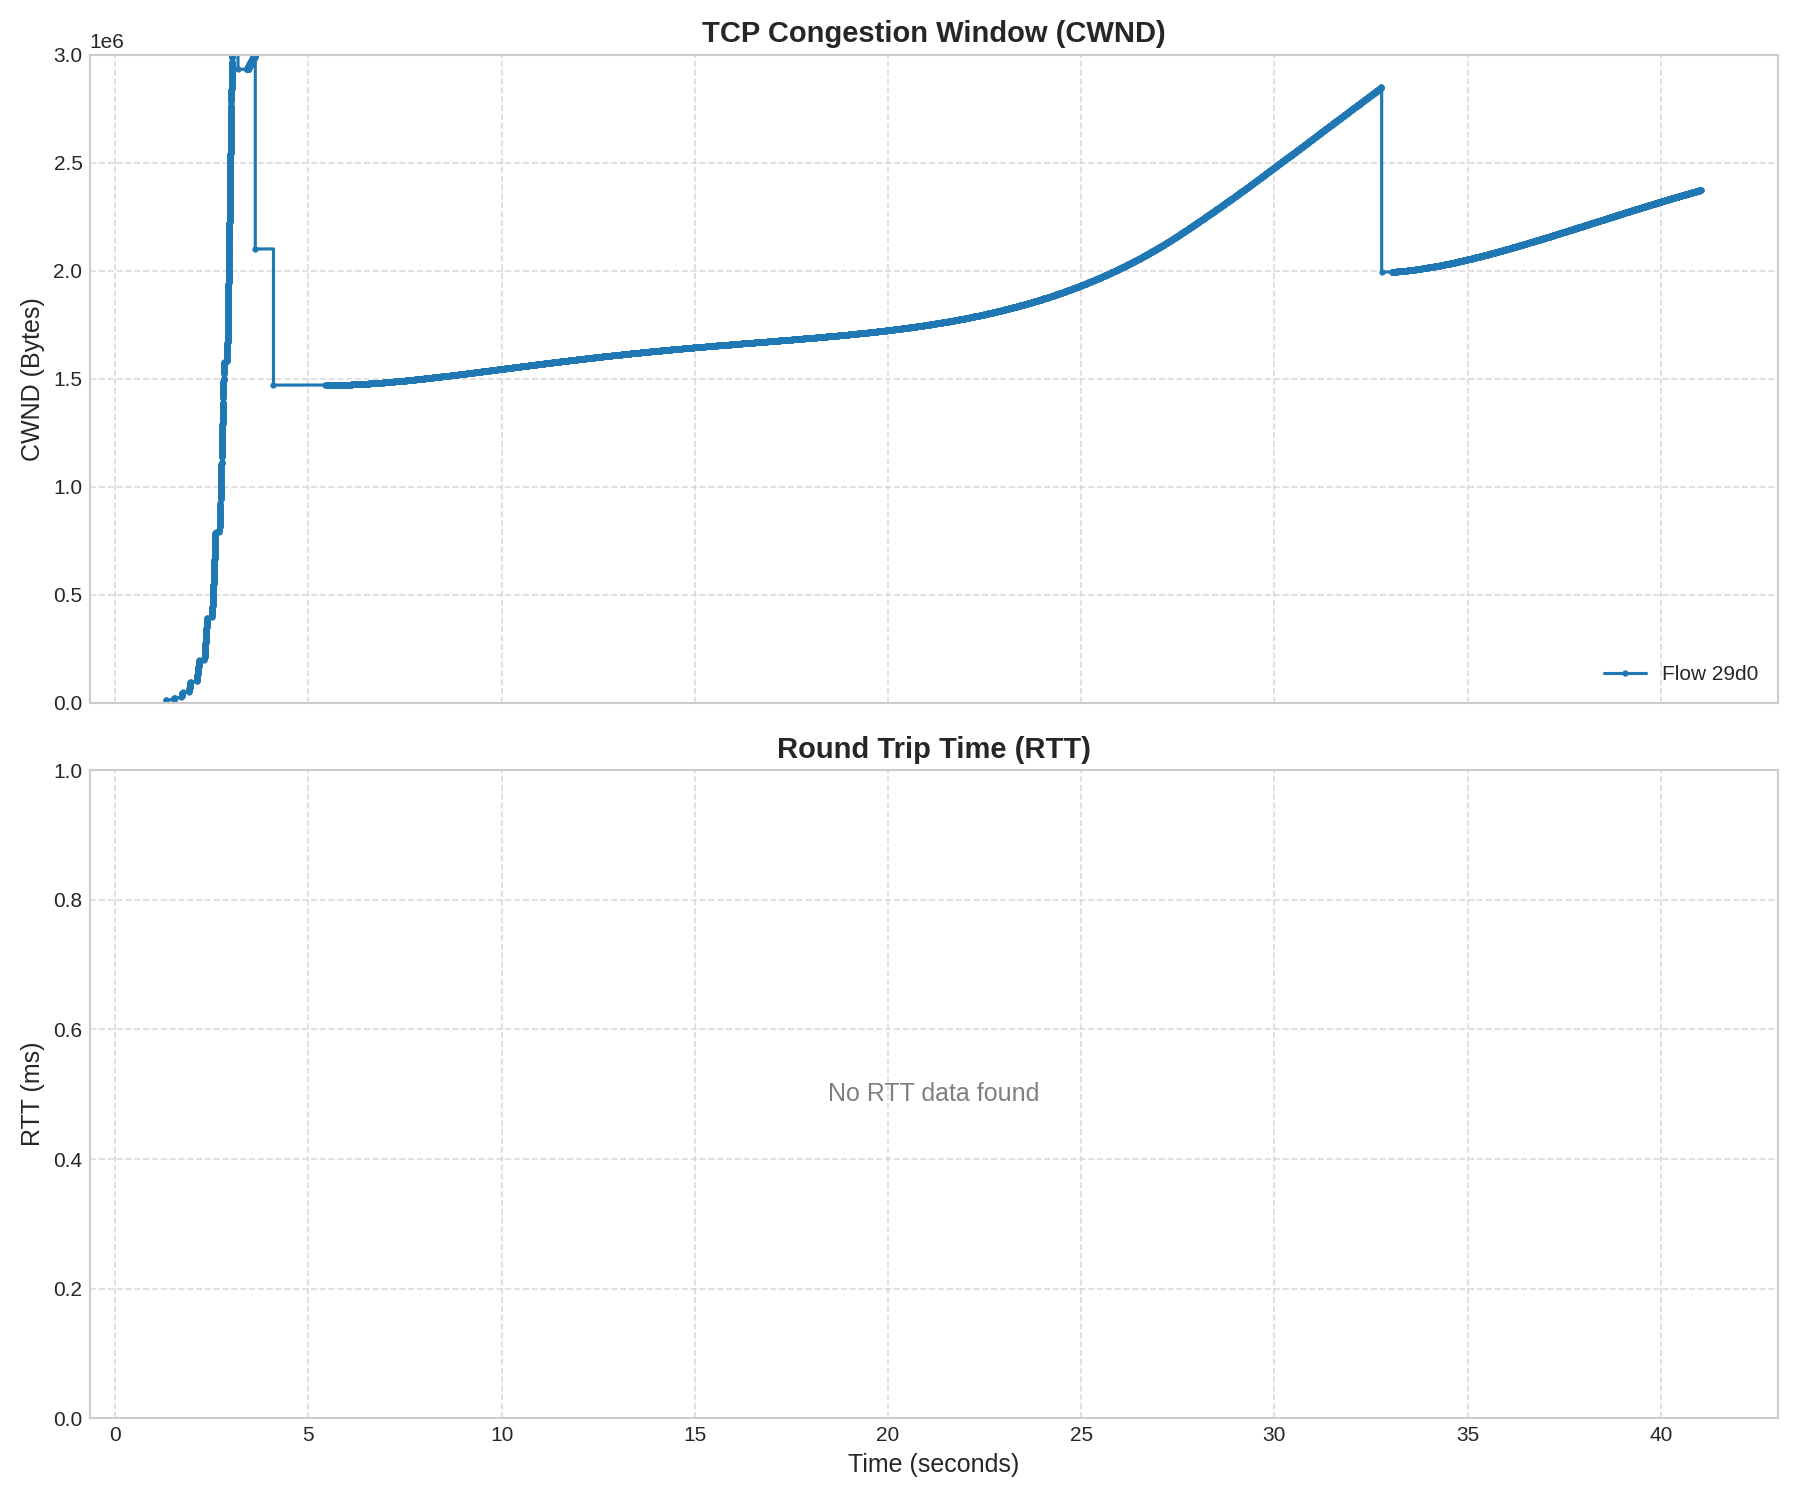
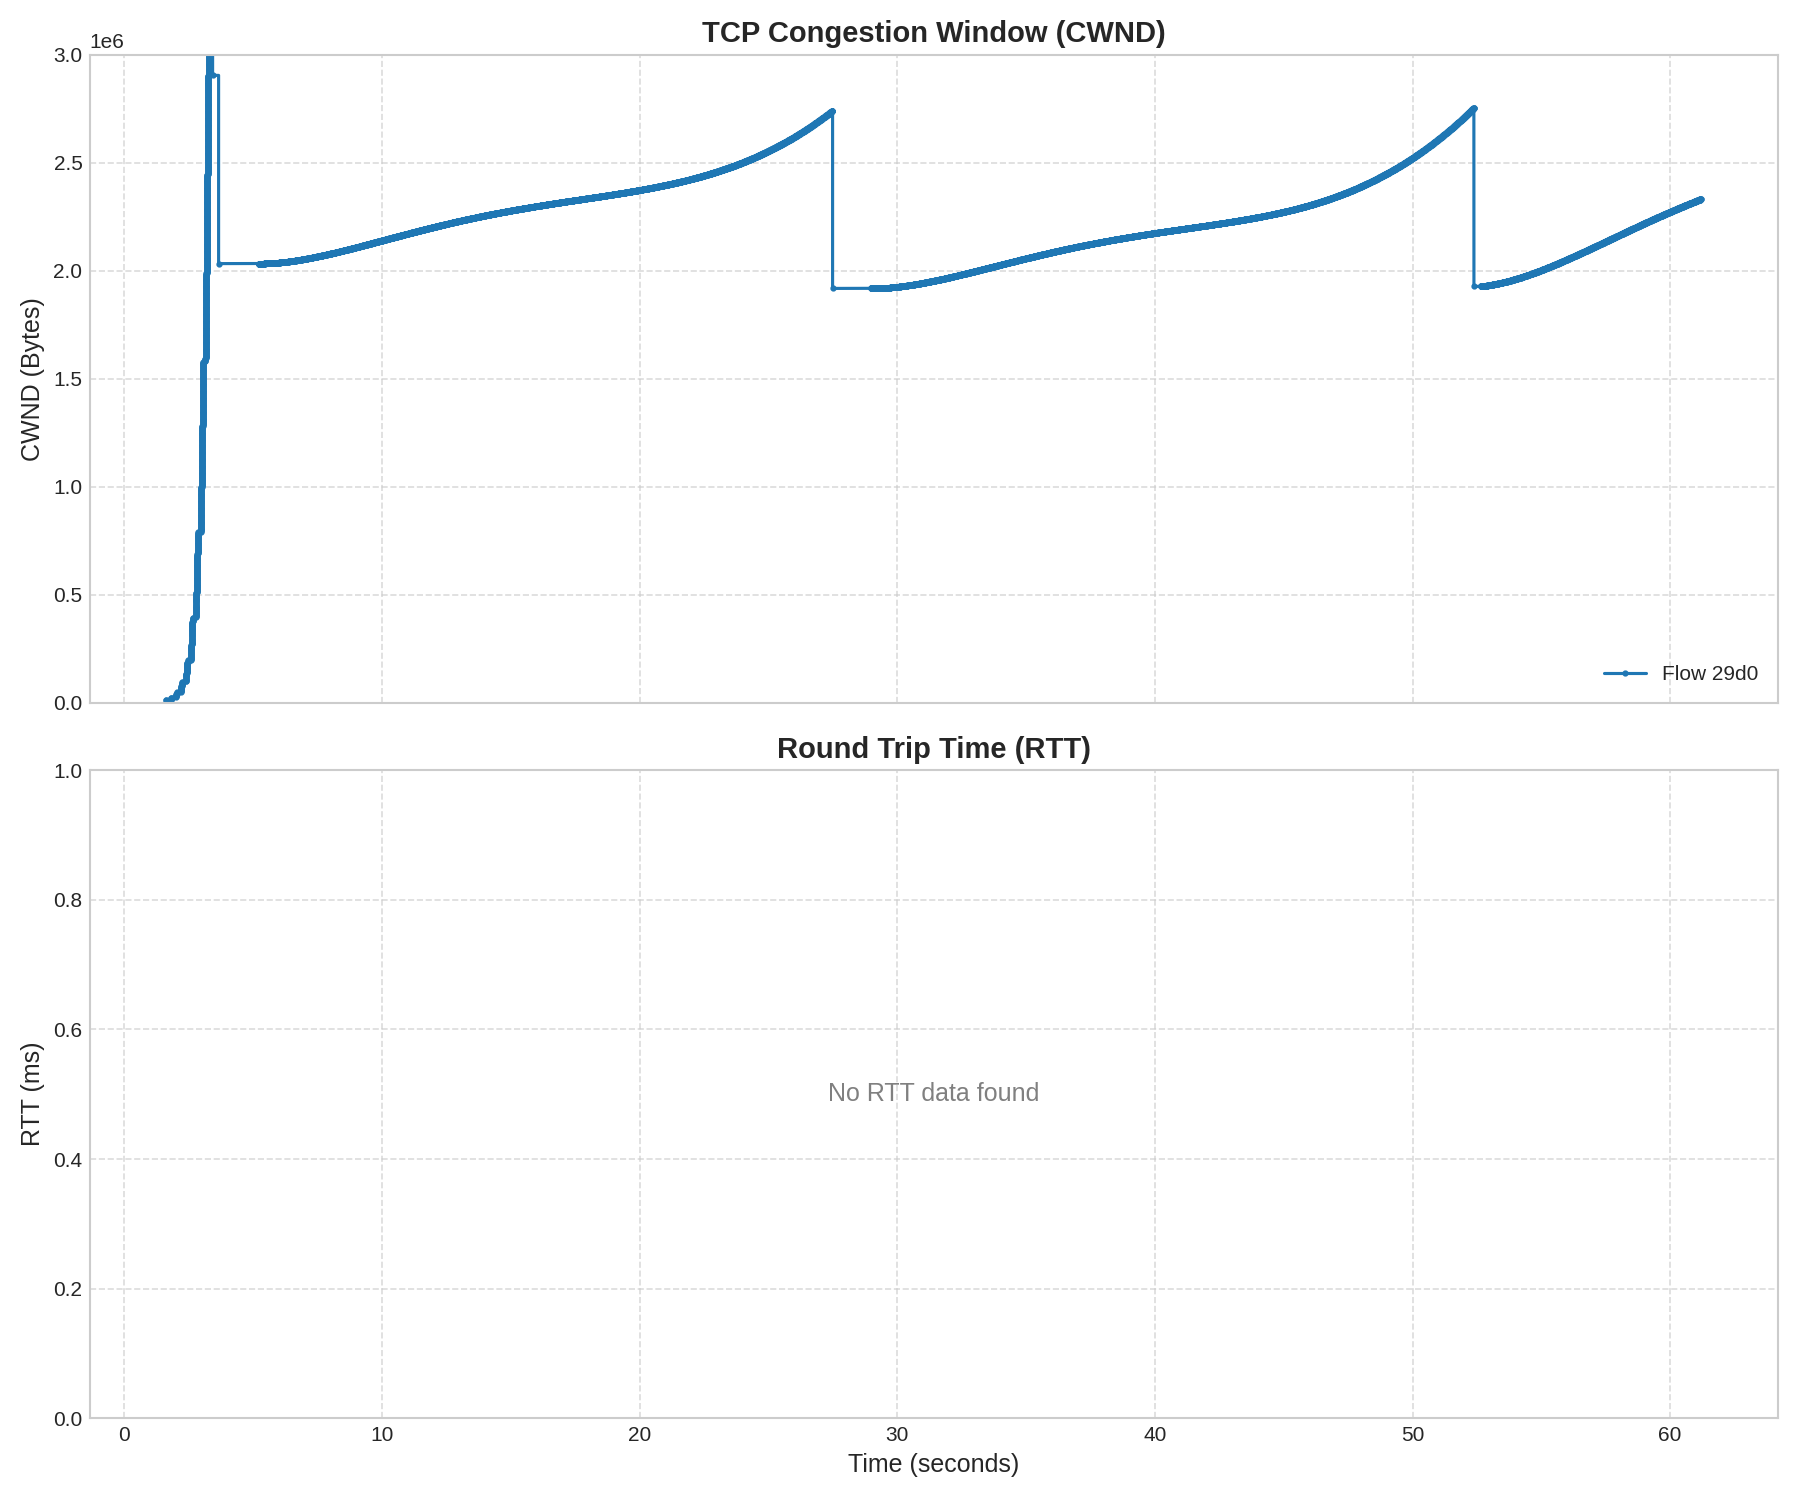
cubicboost v2.1

diff --git a/src/core/cubicprobe.c b/src/core/cubicprobe.c
@@ -2382,9 +2382,7 @@ CubicProbeUpdate(
     // [Debug] Export BaseAckTarget for Logging
     *BaseAckTargetOut = BaseAckTarget;
 
-    // --- 2. Boost Logic ---
-    
-    // V2.2 Aggressive Scaling: (1 + Level * 10)^2
+    // --- 2. Boost Logic ---    
     uint32_t BoostFactor = 1 + CubicProbe->BoostLevel;
     uint32_t Divisor = BoostFactor * BoostFactor;
     
